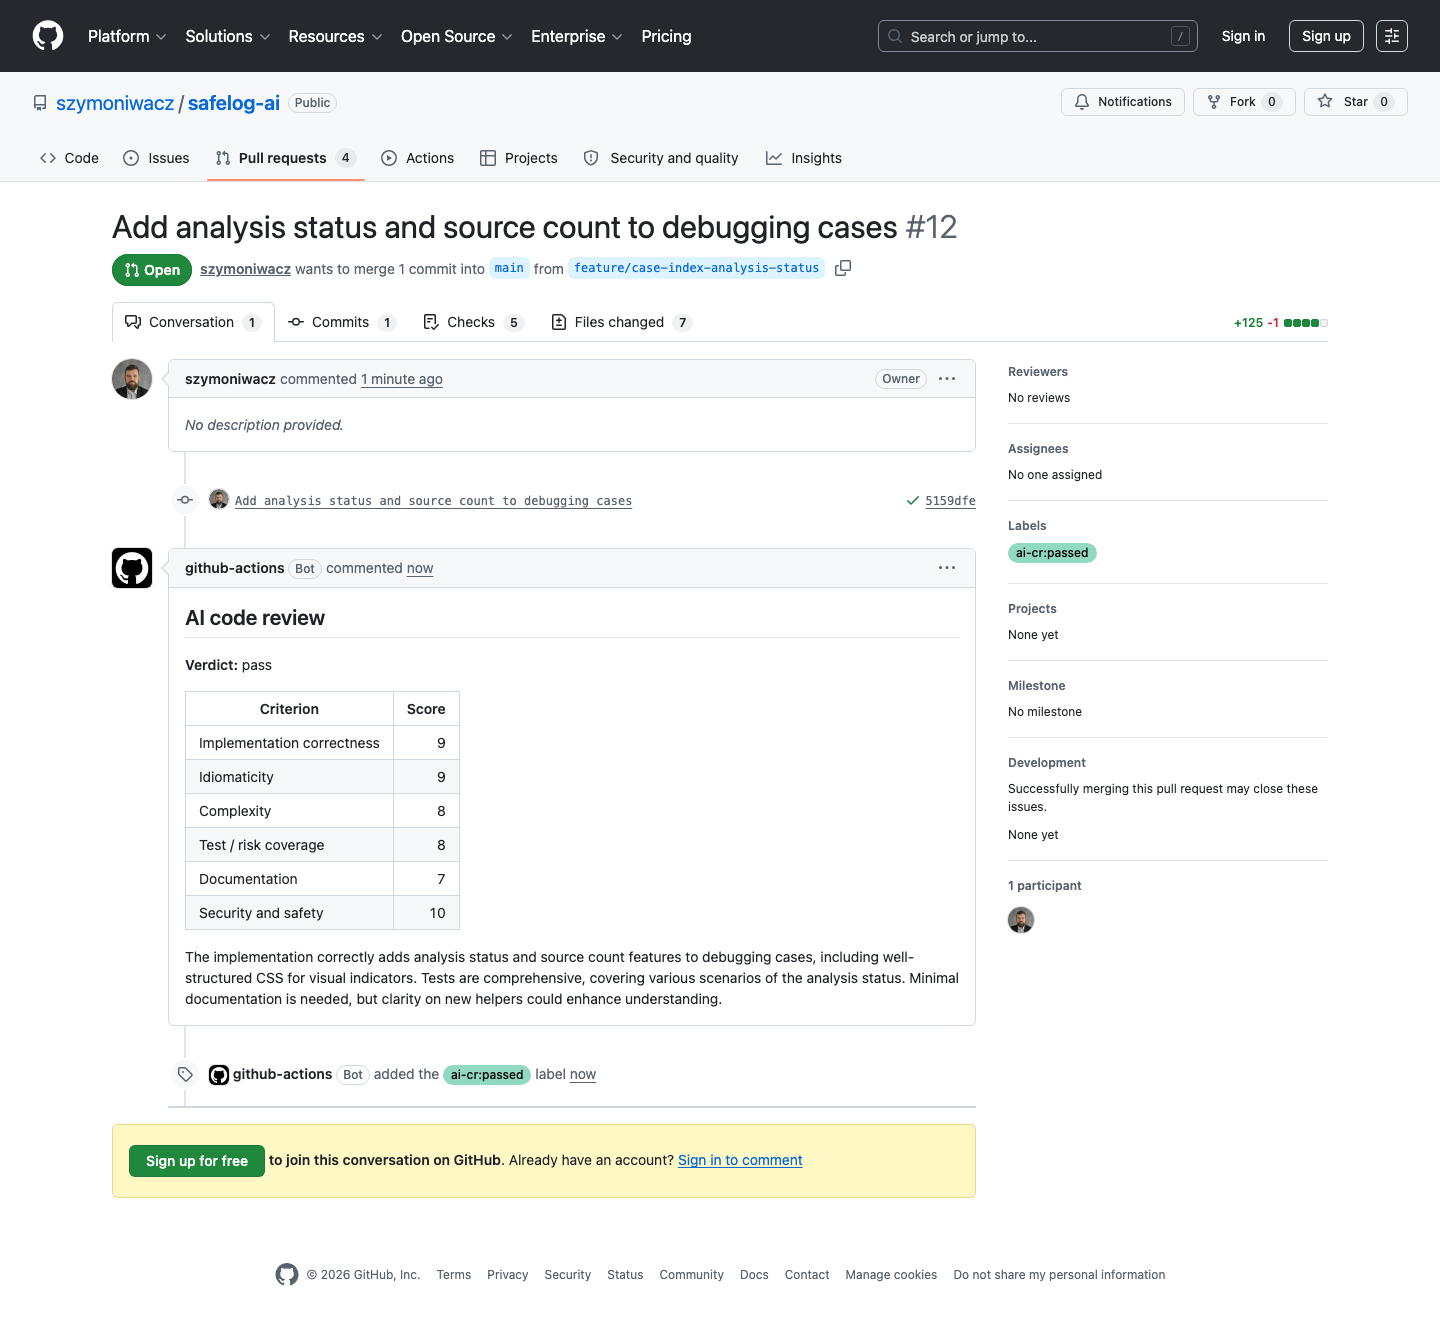
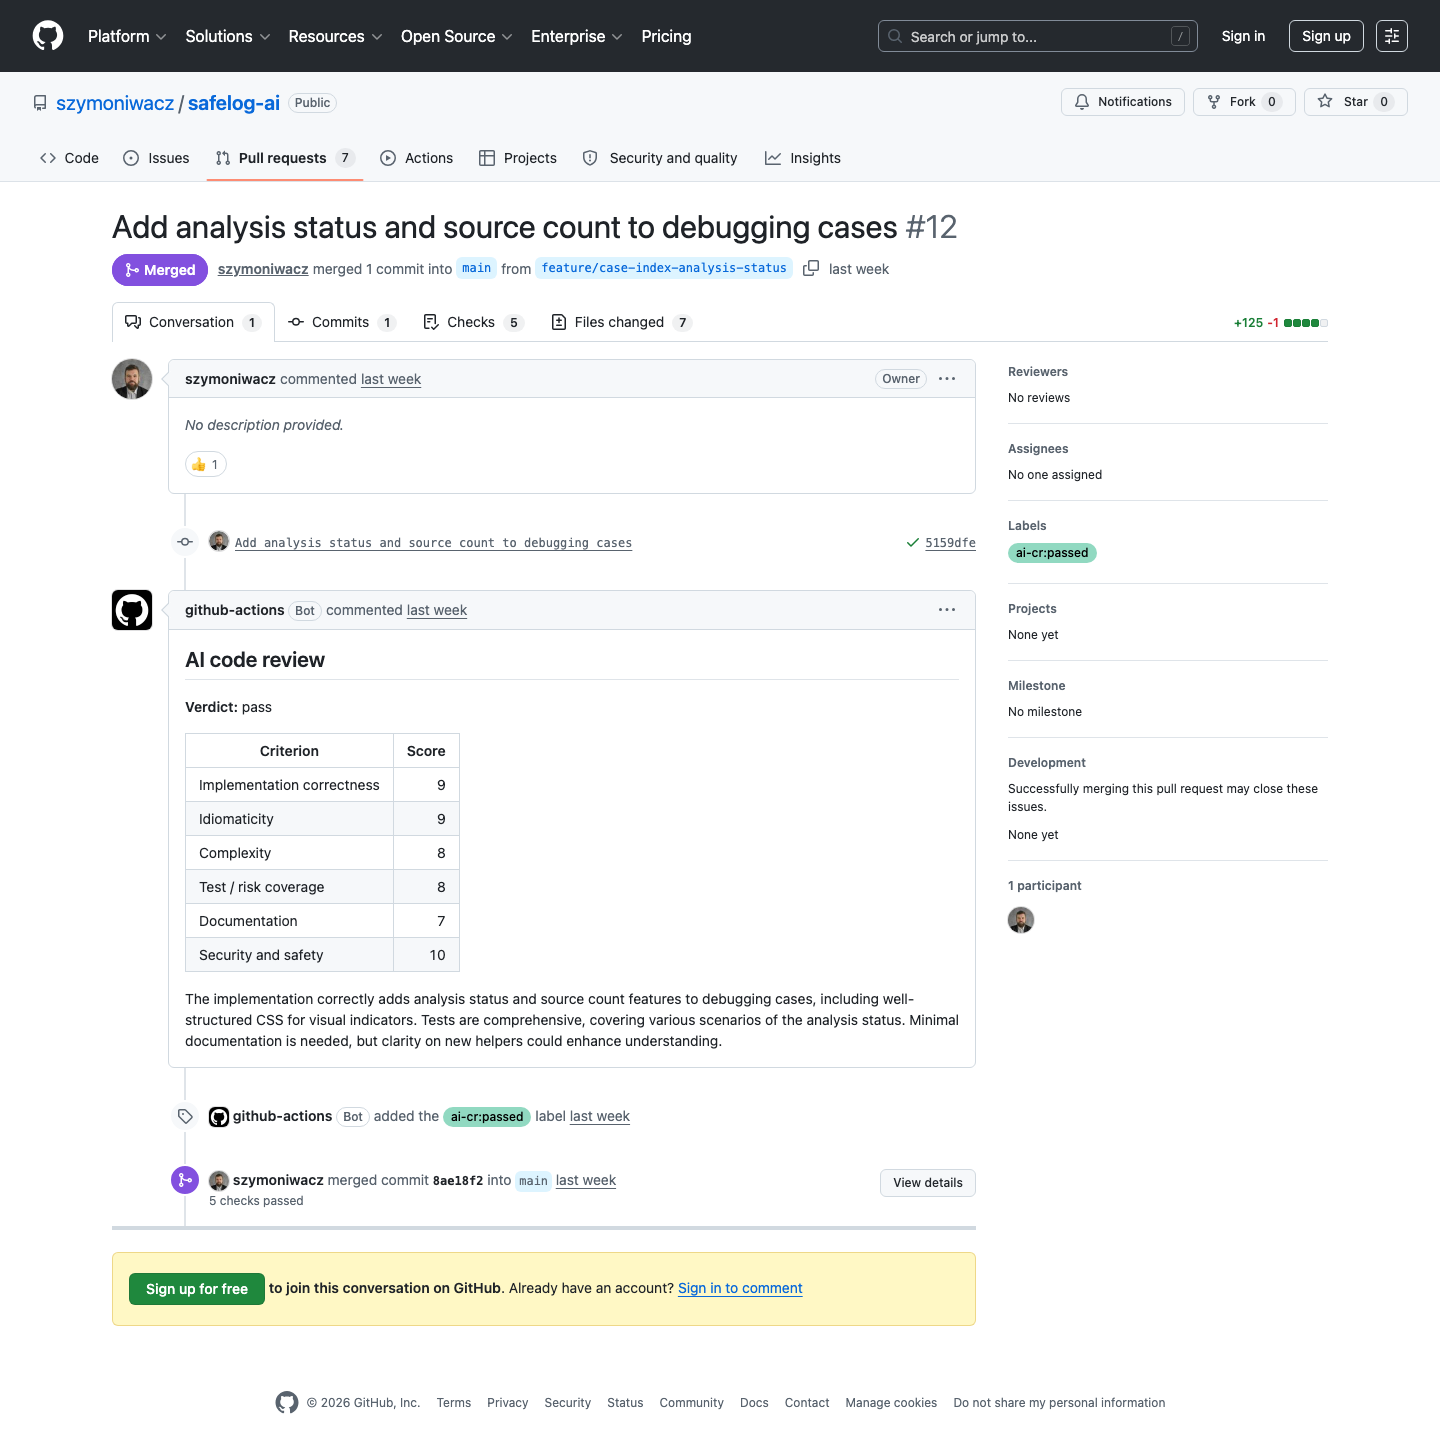
Update certification checklist and add new screenshots

diff --git a/context/certification/screenshots/champion/m5l3/README.md b/context/certification/screenshots/champion/m5l3/README.md
@@ -1,6 +1,18 @@
 # Champion — M5L3 CI code review
 
-Captured from GitHub via Playwright (`e2e/capture-champion-screenshots.spec.ts`), 2026-06-18.
+## Form submission — 3 attachments (Pipeline M5)
+
+Upload these **pass** scenario PNGs to the certification form:
+
+| Form requirement | File | Live source |
+|------------------|------|-------------|
+| Pipeline view with ≥1 job | [`05-actions-workflow-run-pass.png`](05-actions-workflow-run-pass.png) | [GHA run 27763104255](https://github.com/szymoniwacz/safelog-ai/actions/runs/27763104255) |
+| Job logs during code review | [`06-actions-job-logs-pass.png`](06-actions-job-logs-pass.png) | [Job 82142437908](https://github.com/szymoniwacz/safelog-ai/actions/runs/27763104255/job/82142437908) |
+| PR with agent review comment | [`04-pr-ai-review-comment-pass.png`](04-pr-ai-review-comment-pass.png) | [PR #12](https://github.com/szymoniwacz/safelog-ai/pull/12) |
+
+Workflow: [`.github/workflows/ai-code-review.yml`](../../../../.github/workflows/ai-code-review.yml) · Agent: [`packages/code-reviewer/`](../../../../packages/code-reviewer/)
+
+Captured from GitHub via Playwright (`e2e/capture-champion-screenshots.spec.ts`). Pass scenario re-captured 2026-06-28.
 
 ## Fail scenario (intentional security issues)
 

diff --git a/context/certification/submission-checklist.md b/context/certification/submission-checklist.md
@@ -101,7 +101,7 @@ Course requires **one** of two paths; SafeLog covers **both**.
 | Workflow | `.github/workflows/ai-code-review.yml` |
 | Fail PR | https://github.com/szymoniwacz/safelog-ai/pull/11 |
 | Pass PR | https://github.com/szymoniwacz/safelog-ai/pull/12 |
-| Screenshots | [`screenshots/champion/m5l3/`](screenshots/champion/m5l3/) (6 PNGs) |
+| Screenshots | [`screenshots/champion/m5l3/`](screenshots/champion/m5l3/) — **form: 04, 05, 06 (pass)** |
 
 #### Option B — Team AI registry (M5L4)
 
